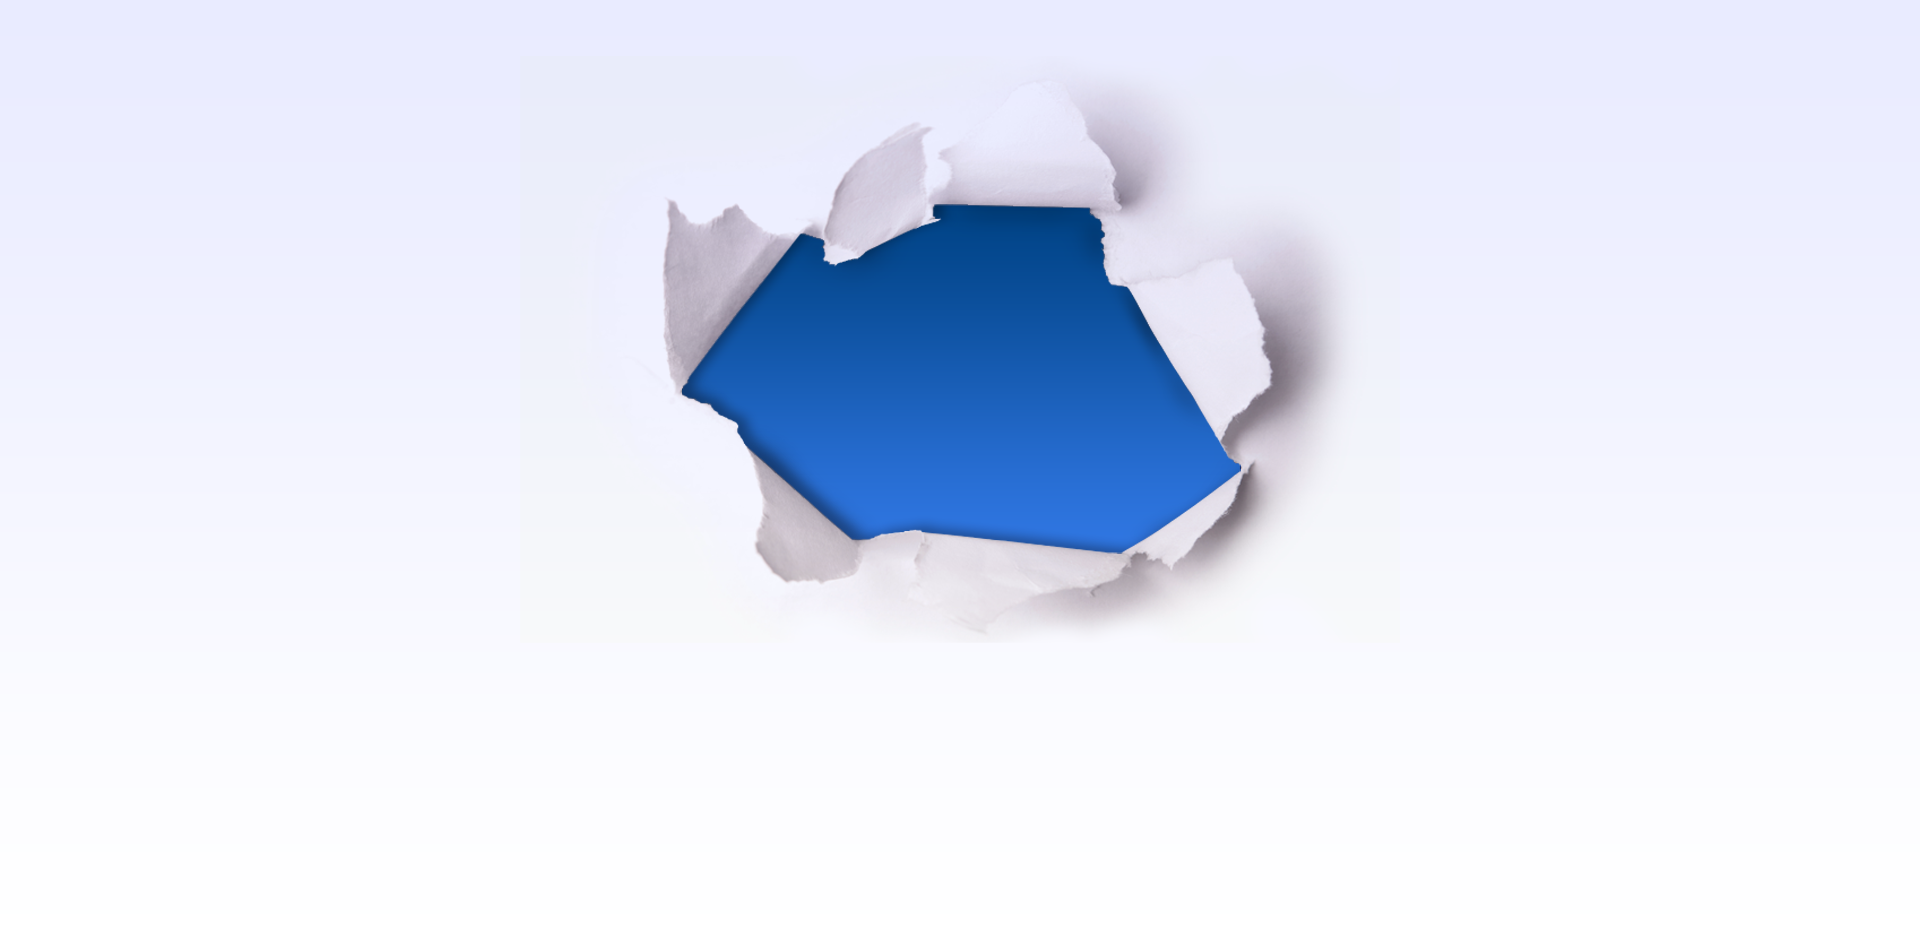
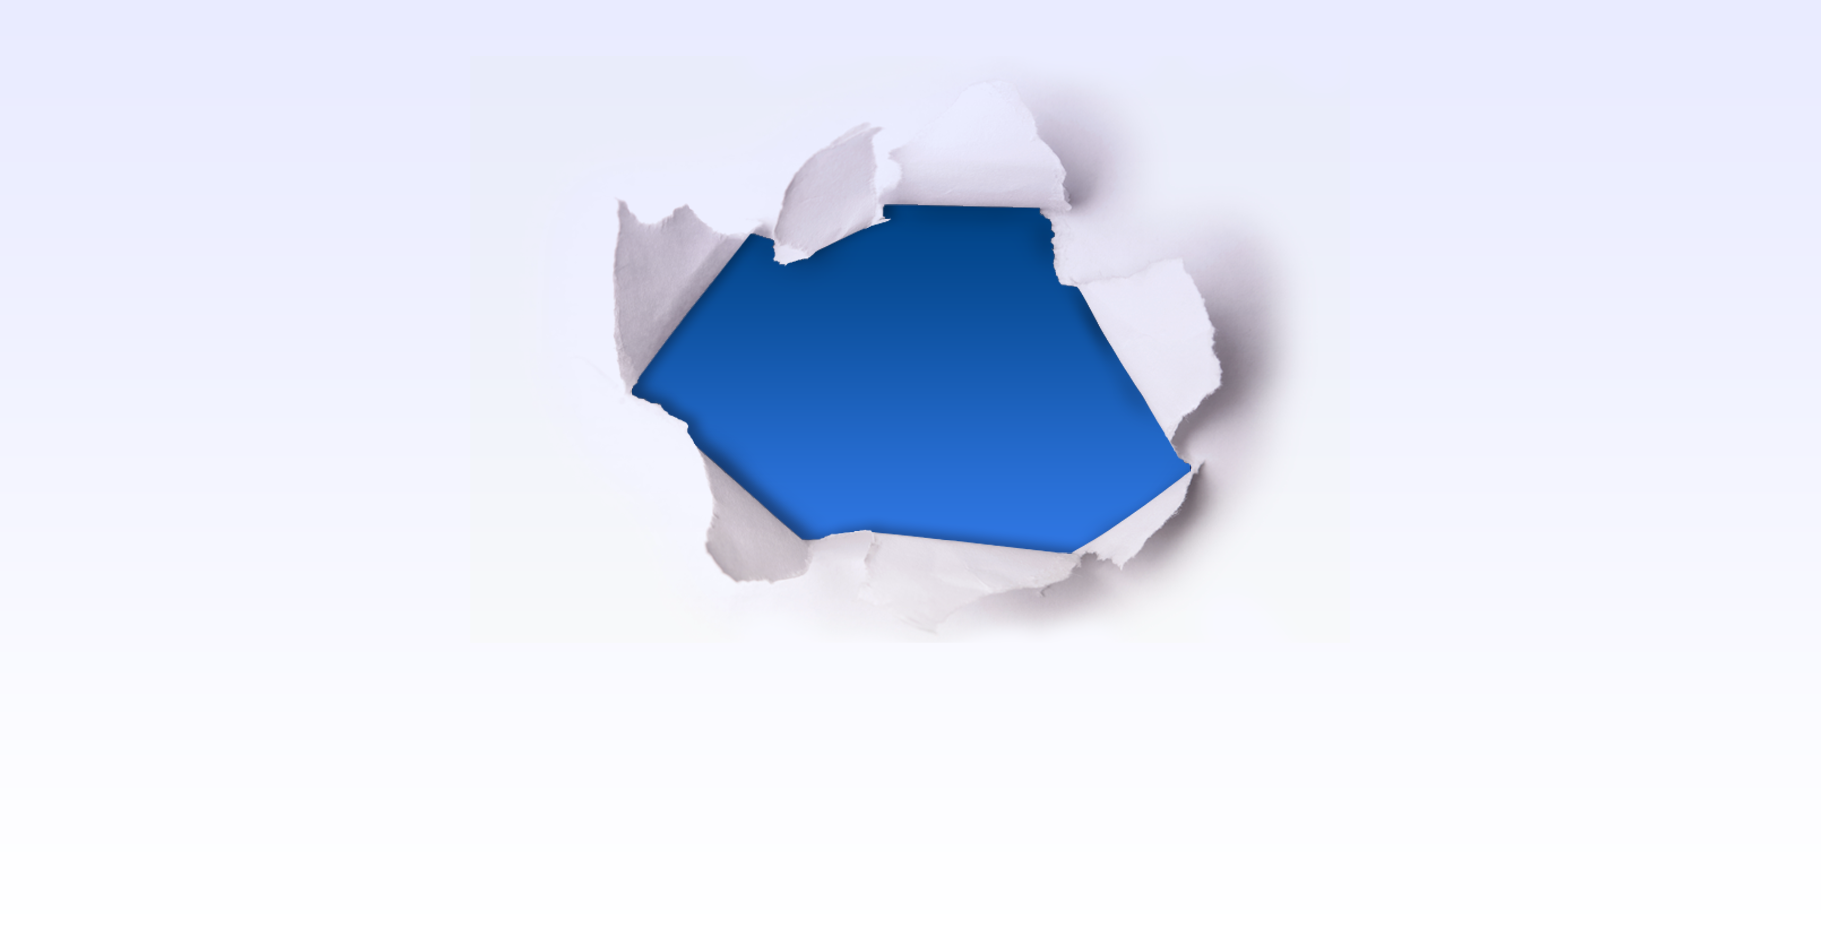
positionj

diff --git a/css/screen.css b/css/screen.css
@@ -29,8 +29,8 @@ img {
 .bg-paper {
   background-image: url("../images/myspace.png");
   background-repeat: no-repeat;
-  background-position: center 0;
-  background-size: 120%;
+  background-position: center center;
+  background-size: 100%;
   overflow: hidden;
   width: 100vw;
   height: 100vh; }
@@ -101,14 +101,6 @@ img {
   .bg-paper {
     background-size: 200%;
     background-position: 50% 25%; } }
-
-.block-table {
-  display: table;
-  width: 100%;
-  table-layout: fixed; }
-
-.block-row {
-  display: table-row-group; }
 
 .block-collapse {
   padding: 0 !important; }
@@ -3282,10 +3274,13 @@ button.close {
   position: fixed; }
 
 .error-block {
+  width: 30%;
   text-align: center;
-  color: #fff;
-  display: table-cell;
-  vertical-align: middle; }
+  position: absolute;
+  top: 250px;
+  left: 50%;
+  margin-left: -15%;
+  color: #fff; }
 
 .error-heading, .error-text {
   margin: 0; }

diff --git a/404.html b/404.html
@@ -14,16 +14,16 @@
 	<![endif]-->
 </head>
 <body>
-	<div class="bg-paper block-table">
-		<div class="block-row">
-			<div class="error-block">
-				<div class="error-heading">404</div>
-				<div class="error-text">страница не найдена </div>
-				<div class="error-button">
-					<a href="#" class="btn">на главную</a>
-				</div>
+	<div class="bg-paper">
+
+		<div class="error-block">
+			<div class="error-heading">404</div>
+			<div class="error-text">страница не найдена </div>
+			<div class="error-button">
+				<a href="#" class="btn">на главную</a>
 			</div>
-		</div>		
+		</div>
+	
 	</div>
 </body>
 </html>

diff --git a/scss/components/bgs.scss b/scss/components/bgs.scss
@@ -10,8 +10,8 @@
 	&-paper{
 		background-image: url("../images/myspace.png");
 		background-repeat: no-repeat;
-		background-position: center 0;
-	    background-size: 120%;
+		background-position: center center;
+	    background-size: 100%;
 	    overflow: hidden;
 	    width: 100vw;
 	    height: 100vh;

diff --git a/css/components/bgs.css b/css/components/bgs.css
@@ -9,8 +9,8 @@
 .bg-paper {
   background-image: url("../images/myspace.png");
   background-repeat: no-repeat;
-  background-position: center 0;
-  background-size: 120%;
+  background-position: center center;
+  background-size: 100%;
   overflow: hidden;
   width: 100vw;
   height: 100vh; }

diff --git a/css/components/404.css b/css/components/404.css
@@ -1,8 +1,11 @@
 .error-block {
+  width: 30%;
   text-align: center;
-  color: #fff;
-  display: table-cell;
-  vertical-align: middle; }
+  position: absolute;
+  top: 250px;
+  left: 50%;
+  margin-left: -15%;
+  color: #fff; }
 
 .error-heading, .error-text {
   margin: 0; }

diff --git a/scss/components/404.scss b/scss/components/404.scss
@@ -1,9 +1,13 @@
 .error{
   &-block{
+    width: 30%;    
     text-align: center;
+    position: absolute;
+    top: 250px;
+    left: 50%;
+    margin-left: -15%;
     color: #fff;
-    display: table-cell;
-    vertical-align: middle;
+
   }
   &-heading,
   &-text{

diff --git a/css/components/block.css b/css/components/block.css
@@ -1,11 +1,3 @@
-.block-table {
-  display: table;
-  width: 100%;
-  table-layout: fixed; }
-
-.block-row {
-  display: table-row-group; }
-
 .block-collapse {
   padding: 0 !important; }
 

diff --git a/scss/components/block.scss b/scss/components/block.scss
@@ -1,12 +1,4 @@
 .block{
-	&-table{
-		display: table;
-		width: 100%;
-		table-layout: fixed;
-	}
-	&-row{
-		display: table-row-group;
-	}
 	&-collapse{
 		padding: 0 !important;
 	}
